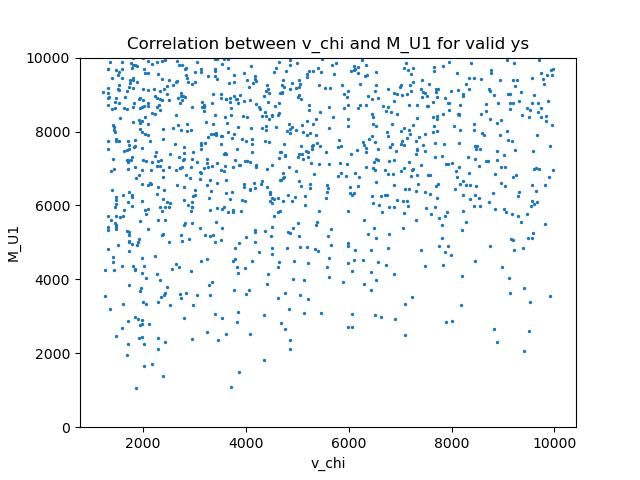
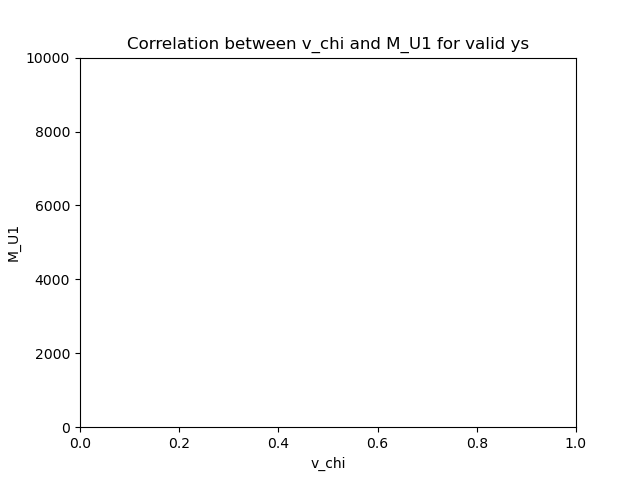
lambda effs

diff --git a/simplemodel.py b/simplemodel.py
@@ -9,7 +9,7 @@ import json
 import matplotlib.pyplot as plt
 from tqdm import tqdm
 
-from scipy.optimize import minimize, fsolve, least_squares
+from scipy.optimize import minimize, fsolve, least_squares, curve_fit
 from scipy.stats import linregress
 conts = fs.constants()
 
@@ -31,6 +31,10 @@ def init_constants(unit = "GeV"):
     v_sigma = s*10
 
     return m_U, m_D, m_E, v_chi, v_phi, v_sigma
+
+def get_lambda_limits():
+    real_Lambda_effs = np.array([980, 18000, 1200, 6200, 510, 1900, 110, 370])
+    return real_Lambda_effs
 
 def build_M_b(g,gs,vs):
     M_b = -1j*1/np.sqrt(2)*np.array([[-g*vs[0]/(2), gs[0]*vs[0]/(2), 0, 0 , 0],
@@ -142,9 +146,12 @@ def Q_compare(field, base, base_SM, U_L, Uh_R):
     Q_d_L = build_Q(f"{field}_L", base)
     Q_d_R = build_Q(f"{field}_R", base)
 
-    mass_Q_d_L = np.abs(np.diag(fs.mass_Q(U_L, Q_d_L)))
-    mass_Q_d_R = np.abs(np.diag(fs.mass_Q(np.transpose(Uh_R), Q_d_R)))
-    compare_Q = np.append(np.abs(mass_Q_d_L[:3])-np.abs(sm_Q_d_L),np.abs(mass_Q_d_R[:3])-np.abs(sm_Q_d_R))
+    mass_Q_d_L = np.abs(fs.mass_Q(U_L, Q_d_L))
+    mass_Q_d_R = np.abs(fs.mass_Q(np.transpose(Uh_R), Q_d_R))
+    compare_Q = np.append(np.diag(mass_Q_d_L)[:3]-np.abs(sm_Q_d_L),np.diag(mass_Q_d_R)[:3]-np.abs(sm_Q_d_R))
+    compare_Q = np.append(compare_Q, mass_Q_d_L[0,1])
+    compare_Q = np.append(compare_Q, mass_Q_d_L[0,2])
+    compare_Q = np.append(compare_Q, mass_Q_d_L[1,2])
     return compare_Q
 
 
@@ -189,8 +196,9 @@ def solve_for_ys(ys,y3_u, y3_d,v_us,v_ds, g, g_prim, V, M_Us, m_us, M_Ds, m_ds, 
     #     print(compare_Qs)
     #     return 1000
     
-    compares = np.concatenate((CKM_compare, compare_Qs, m_u_compare, m_d_compare))
+    #compares = np.concatenate((CKM_compare, compare_Qs, m_u_compare, m_d_compare))
     #compares = np.concatenate((CKM_compare, compare_Qs))
+    compares = np.concatenate((CKM_compare, m_u_compare, m_d_compare))
     return compares
 
 def wrapper_solve_for_ys(ys,y3_u, y3_d,v_us,v_ds, g, g_prim, V, M_Us, m_us, M_Ds, m_ds, mzs):
@@ -368,7 +376,7 @@ def get_y_models(filename, search_for_ys = False, g_model_list = None, cost_tol 
                     mass_Q_d_R = np.diag(fs.mass_Q(np.transpose(Uh_d_R), Q_d_R))
                     print(f"Charge difference L: {np.abs(mass_Q_d_L[:3]) - np.abs(sm_Q_d_L)}")
                     print(f"Charge difference R: {np.abs(mass_Q_d_R[:3]) - np.abs(sm_Q_d_R)}")
-
+                    print(fs.mass_Q(U_d_L, Q_d_L))
                     tmp_list = [y_us, y_ds, M_Us, tan_beta, g_idx]
                     print(f"y_us: {y_us}\n y_ds: {y_ds}\n M_Us: {real_M_Us}\n M_Ds: {real_M_Ds}\n tan_beta = {tan_beta}\n g_idx = {g_idx}")
                     model_list.extend(tmp_list)
@@ -446,6 +454,7 @@ def refine_y_models(filename, y_model_list, g_model_list, cost_tol = 0.5, max_it
             #TODO: Compare diagonal charges with SM
             mass_Q_d_L = np.diag(fs.mass_Q(U_d_L, Q_d_L))
             mass_Q_d_R = np.diag(fs.mass_Q(np.transpose(Uh_d_R), Q_d_R))
+            print(fs.mass_Q(U_d_L, Q_d_L))
             print(f"Charge difference L: {np.abs(mass_Q_d_L[:3]) - np.abs(sm_Q_d_L)}")
             print(f"Charge difference R: {np.abs(mass_Q_d_R[:3]) - np.abs(sm_Q_d_R)}")
 
@@ -469,24 +478,22 @@ if __name__ == "__main__":
     
     # According to definition
     g = conts.e_em/np.sqrt(conts.sw2)
-    #print(g)
     g_prim = conts.e_em/np.sqrt(1-conts.sw2)
-    #print(g_prim)
     #g = 0.652 
     #g_prim = 0.357
     
     # Get models for gs
     search_for_gs = False
     search_for_ys = False
-    plotting = True
-
+    g_plotting = False
+    y_plotting = True
     g_model_list = get_g_models("correct_g_models.npz", g, search_for_gs)
 
     #g_model_list = g_model_list[1000:]
 
     y_model_list = get_y_models("correct_y_models_again.npz", search_for_ys, g_model_list, cost_tol=0.5, max_iters=10, m_repeats=30)
 
-    #y_model_list = refine_y_models("correct_refined_y_models.npz", y_model_list, g_model_list, cost_tol=0.3, max_iters=1000)
+    #y_model_list = refine_y_models("correct_refined_y_models.npz", y_model_list, g_model_list, cost_tol=1, max_iters=100)
 
     #y_model = y_model_list[0]
 
@@ -495,11 +502,69 @@ if __name__ == "__main__":
 
     # FINALLY: Find the FCNC Wilson Coeffs
 
-    if plotting:
+    # g_model = g_model_list[2]
+    # M_b = build_M_b(g, g_model[2], g_model[1])
+    # (U, S, Vd) = np.linalg.svd(-1j*M_b)
+    # print(np.real(np.dot(U, Vd)))
+    # print(np.real(np.linalg.eigvals(-1j*M_b)))
+    # print(np.linalg.svd(M_b)[1])
+    # print(np.sort(np.real(np.linalg.eigvals(-1j*M_b)))-np.sort(np.linalg.svd(M_b)[1]))
+    # print(np.array(g_model[2])*np.array(g_model[1])/np.sqrt(2))
+    # print([(g_model[2][0]+g_model[2][1])*g_model[1][1]/np.sqrt(2), g_model[2][2]*g_model[1][2]/np.sqrt(2), g_model[2][3]*g_model[1][3]/np.sqrt(2)])
+
+    if g_plotting:
+        f  = open("saved_g_regrs.txt", "w")
+        g1_list = [model[2,0] for model in g_model_list]
+        g2_list = [model[2,1] for model in g_model_list]
+        #print(np.array(g1_list) - np.array(g2_list))
+        #print(g_list)
+        #print(np.sqrt(2)*conts.m_Z/conts.v_H)
+        v_strings = ["\chi", "\phi", "\sigma"]
+        m_strings = ["Z_3", "Z_3'", "Z_{12}"]
+        #f.write(f"g2 : {res.slope}\n")
+        for i in range(1,4):
+            v_list = [model[1,i] for model in g_model_list]
+            m_list = [model[0,i] for model in g_model_list]
+            #res = linregress(v_list, m_list)
+            
+            # I guess we'll continue the optimization
+
+            v_s = np.array(v_list)
+            m_zs = np.array(m_list)
+
+            res = curve_fit(lambda x, m: m*x, v_s, m_zs)
+            v_chi_lin = np.linspace(np.min(v_s), np.max(v_s), 10000)
+            stderr = np.sqrt(np.diag(res[1]))
+            slope = res[0][0]
+
+            fig = plt.figure(figsize=(3.5,3))
+            plt.scatter(v_s/1000, m_zs/1000, s = 2, label = "Data pts", zorder = 1)
+            #plt.errorbar(v_chi_uniq, m_z3_means, yerr=m_z3_vars, fmt = ".")
+            plt.plot(v_chi_lin/1000, v_chi_lin*slope/1000, "r", label = f"Regr, g = {slope:.3f}", zorder = 2)
+            plt.fill_between(v_chi_lin/1000, v_chi_lin*(slope - stderr)/1000, v_chi_lin*(slope + stderr)/1000, alpha = 0.5, color = "r",zorder=3)
+            #plt.plot(v_chi_lin, v_chi_lin*(np.mean(g2_list)), "g")
+            plt.title(r"Correlation between $v_" + v_strings[i-1] + r"$ and $m_{" + m_strings[i-1] + r"}$")
+            plt.xlabel(r"$v_" + v_strings[i-1] + r"$ [TeV]")
+            plt.ylabel(r"$m_{" + m_strings[i-1] + r"}$ [TeV]")
+            plt.legend()
+            plt.tight_layout()
+            plt.savefig(f"figs/v_m_{i}.png")
+            f.write(f"g{i+1} : {slope}\n")
+        
+            #m_123_list = [model[2] for model in y_model_list] 
+        f.close()
+        
+        # Save every g regression
+        #g1_list = [model[2,2] for model in g_model_list]        
+        
+    if y_plotting:
         m_u_list = []
         tan_beta_list = []
         charge_diff_list = []
+        Lambda_effs_list = [[],[],[],[]]
 
+        # y_model_list = [y_model_list[5]]
+        real_Lambda_effs = get_lambda_limits()
         for y_model in y_model_list:
             tan_beta= y_model[3]
             g_idx = y_model[4]
@@ -524,80 +589,77 @@ if __name__ == "__main__":
             m_u_list.append(real_M_Us[0])
             tan_beta_list.append(int(tan_beta))
             m_ds = np.array([conts.m_d, conts.m_s, conts.m_b])
-            m_us = np.array([conts.m_u, conts.m_c, conts.m_t])
-
-            #print(f"mds diffs: {diag_yukawa_d[:3]-m_ds}")
-            #print(f"mus diffs: {diag_yukawa_u[:3]-m_us}")
-            # Check CKM and charges for good measure
-            V_CKM_calc = np.dot(np.transpose(U_u_L), U_d_L) 
-            #print(V_CKM_calc[:3,:3])
-            #print(conts.V_CKM)
-            CKM_compare = (np.abs(V_CKM_calc[:3,:3])-np.abs(conts.V_CKM)).flatten()
-            #print(f"CKM compare: {CKM_compare}")
-            
-            base = V[:,1]
-            #base_SM = np.array([(g**2)/np.sqrt(g**2 + g_prim**2), (g_prim**2)/np.sqrt(g**2 + g_prim**2)])
-        
+            m_us = np.array([conts.m_u, conts.m_c, conts.m_t])        
             base_SM = np.array([1, -conts.sw2])
-            # base_SM_gamma = np.array([0, conts.e_em])
-            # base_SM = np.array([(g*g_prim)/np.sqrt(g**2 + g_prim**2), (g*g_prim)/np.sqrt(g**2 + g_prim**2)])
             sm_Q_d_L = np.diag(sm_Q("d_L", base_SM))
             sm_Q_d_R = np.diag(sm_Q("d_R", base_SM))
-            #print(sm_Q_d_L)
-            #print(sm_Q_d_R)
-            Q_d_L = build_Q("d_L", base)
-            Q_d_R = build_Q("d_R", base)
 
-            #TODO: Compare diagonal charges with SM
-            mass_Q_d_L = np.diag(fs.mass_Q(U_d_L, Q_d_L))
-            mass_Q_d_R = np.diag(fs.mass_Q(np.transpose(Uh_d_R), Q_d_R))
+            for k in range(1,5):
+                base = V[:,k]
+                Q_d_L = build_Q("d_L", base)
+                Q_d_R = build_Q("d_R", base)
 
-            #TODO: CKM matrix!
+                Q_u_L = build_Q("u_L", base)
+                Q_u_R = build_Q("u_R", base)
 
-            #print(mass_Q_d_L)
-            #print(sm_Q_d_L)
-            #print(mass_Q_d_R)
-            #print(sm_Q_d_R)
-            #print(f"Charge difference L: {np.abs(mass_Q_d_L[:3]) - np.abs(sm_Q_d_L)}")
-            #print(f"Charge difference R: {np.abs(mass_Q_d_R[:3]) - np.abs(sm_Q_d_R)}")
-            charge_diff_list.append((np.abs(mass_Q_d_L[:3]) - np.abs(sm_Q_d_L))[2])
-            #print(mass_Q_d_R)
+                mass_Q_d_L = fs.mass_Q(U_d_L, Q_d_L)
+                mass_Q_d_R = fs.mass_Q(np.transpose(Uh_d_R), Q_d_R)
+
+                mass_Q_u_L = fs.mass_Q(U_u_L, Q_u_L)
+                mass_Q_u_R = fs.mass_Q(np.transpose(Uh_u_R), Q_u_R)
+                #print(mass_Q_d_L)
+                # Same order as in table
+                cs = np.array([mass_Q_d_L[0,1]**2, mass_Q_d_L[0,1]*mass_Q_d_R[0,1], mass_Q_u_L[0,1]**2, 
+                               mass_Q_u_L[0,1]*mass_Q_u_R[0,1], mass_Q_d_L[0,2]**2, mass_Q_d_L[0,2]*mass_Q_d_R[0,2],
+                               mass_Q_d_L[1,2]**2, mass_Q_d_L[1,2]*mass_Q_d_R[1,2]])
+                #Absolute value ok?
+                cs = np.abs(cs)/(Delta2[k]/(1000**2))
+                
+                Lambda_effs_list[k-1].append(np.sqrt(1/cs))
+            g_idx_list = [int(model[4]) for model in y_model_list]
+        Z_strings = ["Z", "Z_3", "Z_3'", "Z_{12}"]
+        c_strings = ["\Lambda^{sd}_{LL}", "\Lambda^{sd}_{LR}", "\Lambda^{uc}_{LL}", "\Lambda^{uc}_{LR}", "\Lambda^{bd}_{LL}",
+                     "\Lambda^{bd}_{LR}", "\Lambda^{bs}_{LL}","\Lambda^{bs}_{LR}"]
+        simp_c_strings = ["sd_LL", "sd_LR", "uc_LL", "uc_LR", "bd_LL", "bd_LR", "bs_LL", "bs_LR"]
+        fig, axs = plt.subplots(2,4,figsize=(7,5))
+        lines = [None]*5
+        for n in range(8):
+            if n > 3:
+               r = 1
+               xn = n-4
+            else:
+                r = 0
+                xn = n 
+            #fig = plt.figure(figsize=(3.5,3))
+            for k in range(1,5):
+                Lambda_effs = np.array(Lambda_effs_list[k-1])
+                line = axs[r,xn].scatter(np.arange(0,len(y_model_list)),Lambda_effs[:,n], s = 2, label = f"${Z_strings[k-1]}$")
+                lines[k-1] = line
+            line = axs[r,xn].hlines(real_Lambda_effs[n], 0, len(y_model_list), color = "black", label = "Limit")
+            lines[4] = line
+            #plt.scatter(tan_beta_list, m_u_list)
+            #plt.scatter(np.array(v_chi_list)[g_idx_list], m_u_list, s = 2)
+            #axs[r,xn].set_title(f"${c_strings[n]}$" )
+            axs[r,xn].set_xlabel("y-model index")
+            axs[r,xn].set_ylabel(f"${c_strings[n]}$ [log(TeV)]")
+            axs[r,xn].set_yscale("log")
+
+            #plt.ylim(0,10000)
+            # if n == 6:
+            #     axs[r,xn].legend(loc='lower center', bbox_to_anchor = (0,-1), ncol=5)
+            # #axs[n].tight_layout()
+        plt.suptitle("Each $\Lambda_{eff}$ for each y-model and neutral masssive boson")
+        #plt.legend(loc='upper center', bbox_to_anchor=(0.1, -0.8), ncol=5)
+        fig.legend(handles = lines, loc = "lower center", ncols = 5, bbox_to_anchor = (0.5,0))
+        plt.tight_layout(rect=[0, 0.05, 1, 1])
+        plt.savefig(f"figs/Lambda_effs_all.png")
+        #plt.savefig(f"figs/Lambda_effs_{simp_c_strings[n]}.png")
 
             #TODO: Calculate further constants, use in minimization?
             #c_sd = (mass_Q_d_L[0,1]**2)/Delta2[1]# + mass_Q_d_R[0,1]**2 + 2*mass_Q_d_L[0,1]*mass_Q_d_R[0,1]
             #print(f"The constant for a kaon-antikaon with neutral current is: {c_sd}")
-        
-        # I guess we'll continue the optimization
-        #print(np.min(np.abs(charge_diff_list)))
-        v_chi_list = [model[1,1] for model in g_model_list]
-        m_z3_list = [model[0,1] for model in g_model_list]
 
-        res = linregress(v_chi_list, m_z3_list)
-        v_chi_lin = np.linspace(v_chi_list[0], v_chi_list[-1], 10000)
-        #m_z3_lin = np.linspace(m_z3_list[0], m_z3_list[-1], 10000)
 
-        fig = plt.figure()
-        plt.scatter(v_chi_list, m_z3_list, s = 2, label = "Data pts", zorder = 1)
-        plt.plot(v_chi_lin, v_chi_lin*res.slope + res.intercept, "r", label = "Regr", zorder = 2)
-        plt.title(r"Correlation between $v_\chi$ and $m_{Z^3}$")
-        plt.xlabel(r"$v_\chi$ [GeV]")
-        plt.ylabel(r"$m_{Z^3}$ [GeV]")
-        plt.legend()
-        plt.savefig("figs/v_chi_m_z3.png")
-        #m_123_list = [model[2] for model in y_model_list]
-        
-        
-        g_idx_list = [int(model[4]) for model in y_model_list]
-        #print(g_idx_list)
-        fig = plt.figure()
-        #plt.scatter(tan_beta_list, m_u_list)
-        plt.scatter(np.array(v_chi_list)[g_idx_list], m_u_list, s = 2)
-        plt.title("Correlation between v_chi and M_U1 for valid ys")
-        plt.xlabel("v_chi")
-        plt.ylabel("M_U1")
-        plt.ylim(0,10000)
-        plt.savefig("figs/v_chi_M_U1.png")
-        
     '''
                 yukawas = build_yukawa(np.insert(y_ds, 0, y3_d), M_Ds, vs)
 
